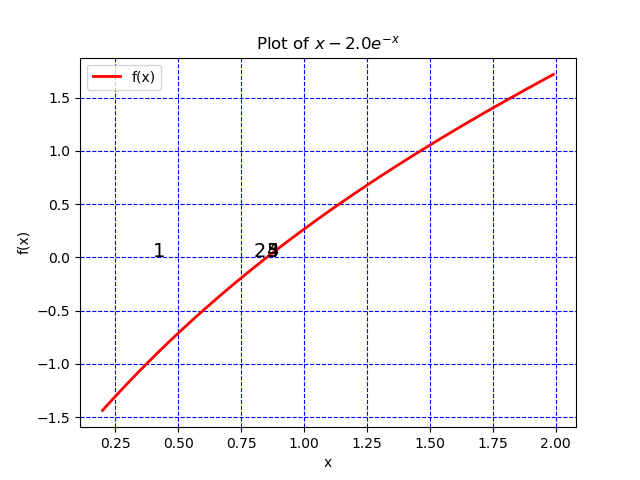
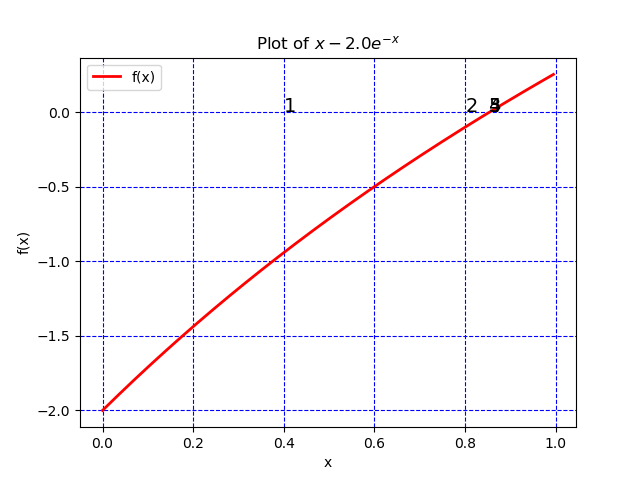
Each root finding technique with same function and stopping criterion

diff --git a/false_position.py b/false_position.py
@@ -10,7 +10,7 @@ def f_string():
     fn_string = 'x - 2.0 * exp(-x)'
     #fn_string = "pow(x,3)-x-exp(x)-1+y"
     #fn_string = "-0.3*x**3"
-    fn_string = "(x**2)-(exp(x)/x)"
+    #fn_string = "(x**2)-(exp(x)/x)"
     return fn_string
 
 def f(x):
@@ -20,12 +20,12 @@ def f(x):
     return tmp
 
 def main():
-    a = 0.5  # define and a and b (bracketing values)
+    a = 0.0  # define and a and b (bracketing values)
     b = 1.0
     x_start = a
     x_end = b
     table = [["i","root approx.","rel. error"]]
-    err_stop = 1e-3
+    err_stop = 1e-6
     root_data = [a,b]
     if f(a) * f(b) < 0:
         rel_err = 1.1 * err_stop

diff --git a/newton_raphson.py b/newton_raphson.py
@@ -24,8 +24,8 @@ def f(x):
     return tmp
 
 def main():
-    a = 0.2  # define and a and b (bracketing values)
-    b = 2
+    a = 0.0  # define and a and b (bracketing values)
+    b = 1
     x_start = a
     x_end = b
     xi = 0.4

diff --git a/secant.py b/secant.py
@@ -19,8 +19,8 @@ def f(x):
     return tmp
 
 def main():
-    a = 0.2  # define and a and b (bracketing values)
-    b = 2
+    a = 0.0  # define and a and b (bracketing values)
+    b = 1
     x_start = a
     x_end = b
     xi = 0.4

diff --git a/bisection.py b/bisection.py
@@ -25,7 +25,7 @@ def main():
     x_start = a
     x_end = b
     table = [["i","root approx.","rel. error"]]
-    err_stop = 1e-2
+    err_stop = 1e-6
     root_data = [a,b]
     if f(a) * f(b) < 0:
         rel_err = 1.1 * err_stop
